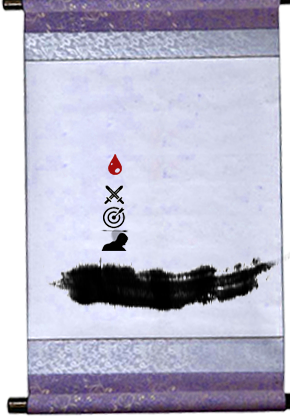
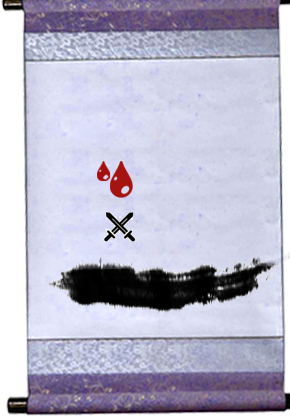
finish?

Changed region(s): [[0.2793, 0.3741, 0.4655, 0.6547], [0.869, 0.6235, 0.931, 0.6547]]

diff --git a/core/src/nanami/mashiro/glitchess/screen/GameScreen.java b/core/src/nanami/mashiro/glitchess/screen/GameScreen.java
@@ -19,8 +19,9 @@ public class GameScreen implements Screen {
 	private Texture bgDay, bgNight, imgMain, imgNext;
 	private Texture imgLeftOn, imgRightOn, imgLeftOff, imgRightOff;
 	private Texture imgLeftNoteOn, imgRightNoteOn, imgLeftNoteOff, imgRightNoteOff;
-	private Texture[] imgPiece, imgPieceName, imgSelect, imgTarget, imgFlare;
+	private Texture[] imgPiece, imgPieceName, imgScript, imgSelect, imgTarget, imgFlare;
 	private Texture[][] imgNumber;
+	private Texture imgLeftWin, imgRightWin;
 
 	private Texture imgMenuBack;
 
@@ -31,7 +32,7 @@ public class GameScreen implements Screen {
 	private Status nowStatus;
 
 	private int splashMargin;
-	private int opacity, nightOpacity;
+	private int opacity, nightOpacity, victoryOpacity;
 
 	public GameScreen() {
 		nowStatus = Status.SplashDisposing;
@@ -48,6 +49,7 @@ public class GameScreen implements Screen {
 		// Draw Board
 		if (nowStatus == Status.SplashDisposing) {
 			opacity = 0;
+			victoryOpacity = 0;
 			splashMargin = ScreenFunction.EasingFunction(splashMargin, 720, 10);
 
 			// Gdx.app.log("Easing", String.format("%d", splashMargin));
@@ -88,6 +90,15 @@ public class GameScreen implements Screen {
 		if (Play.GetWinTeam() != 0) {
 			nowStatus = Status.Finished;
 			DrawComponent(0, 1, 0);
+
+			victoryOpacity = Math.min(100, victoryOpacity + 1);
+
+			spriteBatch.setColor(1.0f, 1.0f, 1.0f, (float) victoryOpacity / 100);
+			if (Play.GetWinTeam() > 0) {
+				spriteBatch.draw(imgLeftWin, 128, 104, 1024, 512);
+			} else {
+				spriteBatch.draw(imgRightWin, 128, 104, 1024, 512);
+			}
 		} else {
 			if (targetID != 0) {
 				nowStatus = Status.Shooting;
@@ -150,6 +161,7 @@ public class GameScreen implements Screen {
 		if (Gdx.input.isKeyJustPressed(Input.Keys.ESCAPE) && nowStatus != Status.SplashDisposing) {
 			// isPaused = !isPaused;
 			opacity = 0;
+			victoryOpacity = 0;
 			Play.ResetGame();
 
 			nowStatus = Status.Pending;
@@ -235,6 +247,8 @@ public class GameScreen implements Screen {
 	}
 
 	private void DrawComponent(int team, int op, int exceptID) {
+		spriteBatch.setColor(1.0f, 1.0f, 1.0f, 1.0f);
+
 		if (team >= 0) {
 			spriteBatch.draw(imgLeftOn, 0, 370, 255, 358);
 		} else {
@@ -258,18 +272,23 @@ public class GameScreen implements Screen {
 			spriteBatch.draw(imgRightNoteOff, 990, 680, 291, 37);
 
 			spriteBatch.draw(imgPieceName[imgType], 60, 260, 135, 50);
+			if (Play.IsNight()) {
+				spriteBatch.draw(imgScript[imgType % 10], 60, 85, 123, 31);
+			}
 		} else if (selectID < 0) {
 			spriteBatch.draw(imgLeftNoteOff, 0, 0, 280, 33);
 			spriteBatch.draw(imgRightNoteOn, 991, 300, 290, 417);
 
-			spriteBatch.draw(imgPieceName[imgType], 1000, 0, 140, 50);
+			spriteBatch.draw(imgPieceName[imgType], 1080, 583, 140, 50);
+			if (Play.IsNight()) {
+				spriteBatch.draw(imgScript[imgType % 10], 1080, 412, 123, 31);
+			}
 		} else {
 			spriteBatch.draw(imgLeftNoteOff, 0, 0, 280, 33);
 			spriteBatch.draw(imgRightNoteOff, 990, 680, 291, 37);
 		}
 
 		if (selectID != 0) {
-			spriteBatch.setColor(1.0f, 1.0f, 1.0f, 1.0f);
 
 			int sizetype = Board.GetSize(selectID, false, false);
 			int size = Board.GetSize(selectID, false, true);
@@ -321,11 +340,16 @@ public class GameScreen implements Screen {
 
 		imgPiece = new Texture[18];
 		imgPieceName = new Texture[18];
+		imgScript = new Texture[8];
 		for (int i = 0; i <= 1; i++) {
 			for (int j = 1; j <= 7; j++) {
 				imgPiece[i * 10 + j] = new Texture(String.format("img/piece/%d.png", i * 10 + j));
 				imgPieceName[i * 10 + j] = new Texture(String.format("img/script/name/%d.png", i
 						* 10 + j));
+
+				if (i == 0) {
+					imgScript[j] = new Texture(String.format("img/script/content/%d.png", j));
+				}
 			}
 		}
 
@@ -360,6 +384,9 @@ public class GameScreen implements Screen {
 		}
 
 		imgMenuBack = new Texture("img/menu/mask.png");
+
+		imgLeftWin = new Texture("img/victory/left.png");
+		imgRightWin = new Texture("img/victory/right.png");
 
 		Play.StartGame();
 	}

diff --git a/core/src/nanami/mashiro/glitchess/piece/KingPiece.java b/core/src/nanami/mashiro/glitchess/piece/KingPiece.java
@@ -33,7 +33,9 @@ public class KingPiece extends Piece {
 				}
 
 				if (board[nr][nc] * this.GetTeam() <= 0) {
-					listCand.add(new Matrix(nr, nc));
+					if (!isNight || board[nr][nc] * this.GetTeam() < 0) {
+						listCand.add(new Matrix(nr, nc));
+					}
 				}
 				if (board[i][j] * this.GetTeam() != 0) {
 					break;

diff --git a/core/src/nanami/mashiro/glitchess/piece/Piece.java b/core/src/nanami/mashiro/glitchess/piece/Piece.java
@@ -24,7 +24,6 @@ public abstract class Piece {
 	}
 
 	public void ResetPosition() {
-		this.nowHp = 1;
 		this.position = Function.GetStartPosition(this.id);
 	}
 
